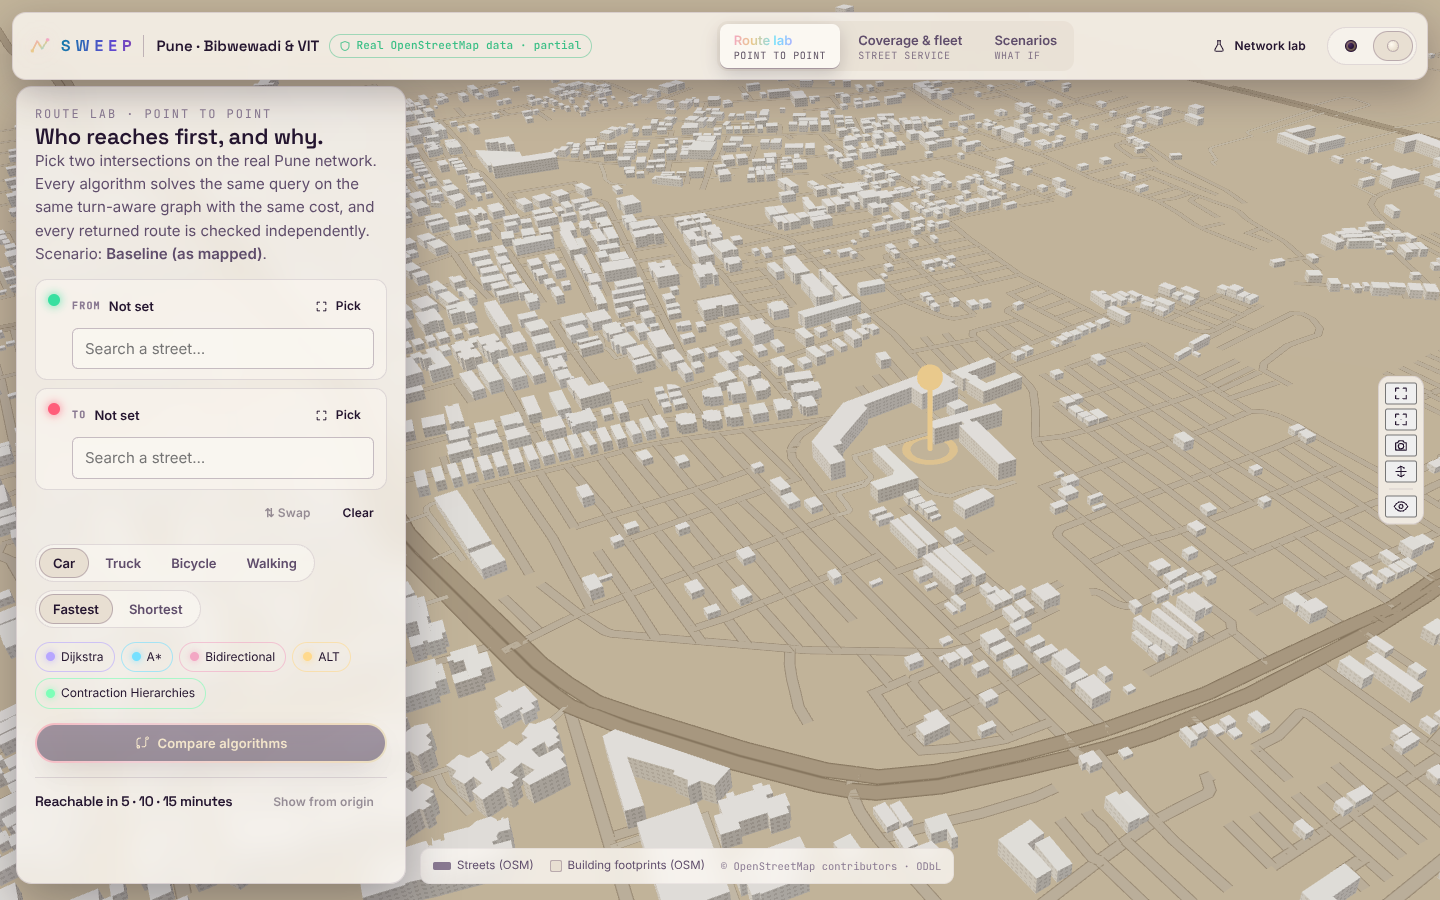
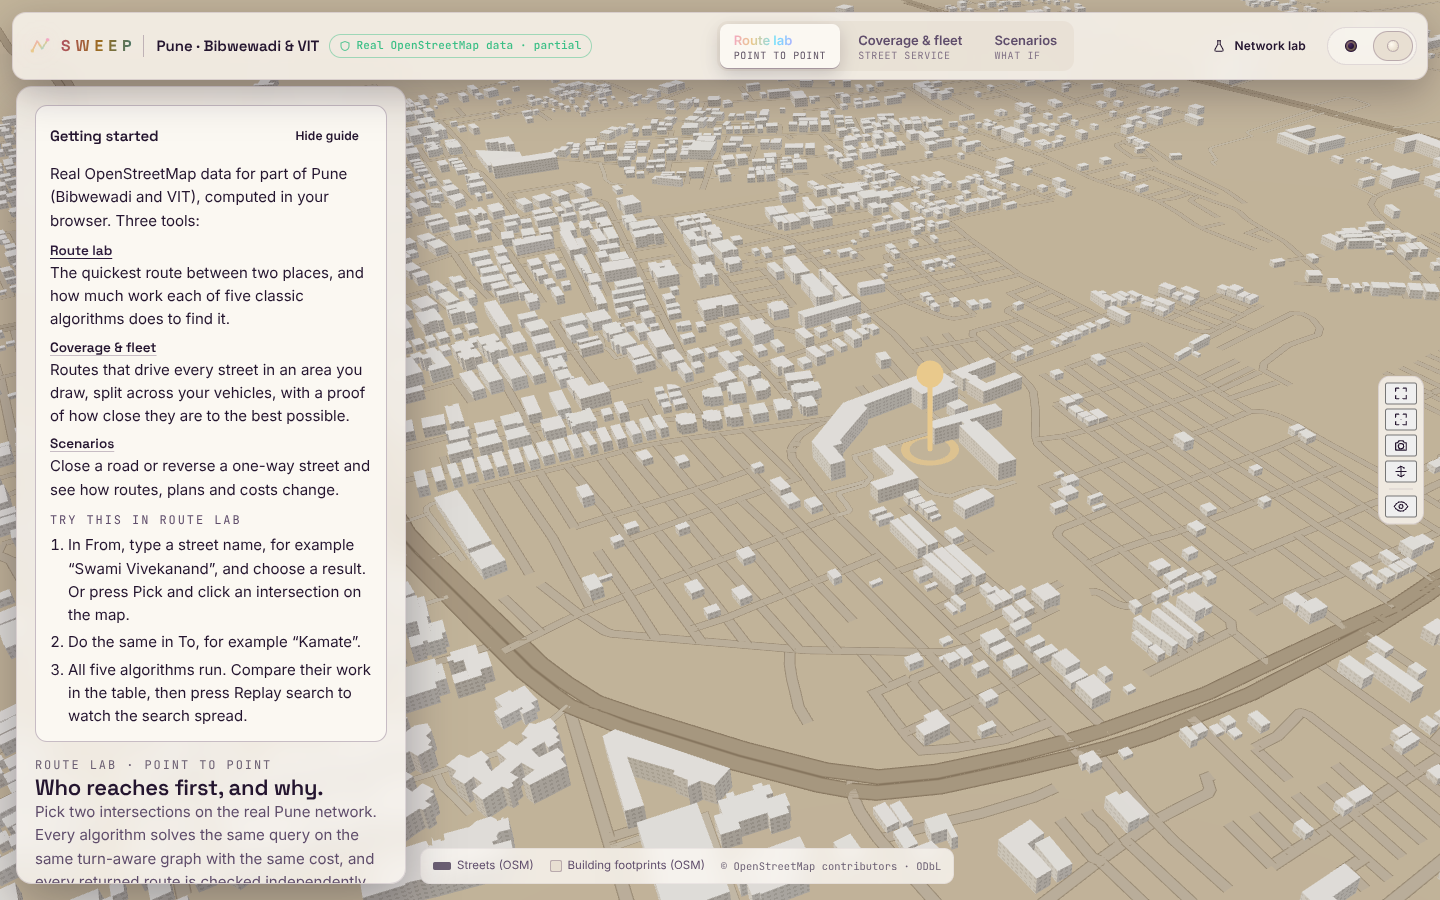
Route-coloured landing text uses --route-ink; recapture city screenshots; final checks
* .ledger .good and .plate__figure--good are small or large text in the
  route colour; they now use the --route-ink token (4.5:1 on Porcelain).
* docs/screenshots/city-*.png recaptured after the workspace changes and
  the Porcelain token change: the theme pair shows the first-visit guide.
* CITY_UX_NOTES.md records the full verify run (exit 0, browser 73/73).

Claude-Session: https://claude.ai/code/session_01CSpTwvnce58BdNaHwNZVMc

diff --git a/apps/web/src/styles/landing.css b/apps/web/src/styles/landing.css
@@ -339,7 +339,7 @@
   color: var(--repeat);
 }
 .plate__figure--good {
-  color: var(--route);
+  color: var(--route-ink);
 }
 
 /* ---- B: sticky transformation ---- */
@@ -525,7 +525,7 @@
   background: var(--line-soft);
 }
 .ledger .good {
-  color: var(--route);
+  color: var(--route-ink);
 }
 .ledger .bad {
   color: var(--repeat);

diff --git a/docs/CITY_UX_NOTES.md b/docs/CITY_UX_NOTES.md
@@ -154,10 +154,18 @@ WebGL is not involved.
 
 ## Final checks
 
-A full `pnpm verify` is running on the merged head (with `9ddebb9`). Its results go here with the next push. Already passed on the landing commit before that merge:
-* typecheck and lint clean;
-* unit tests engine 178, web 50, server 38;
-* city spec 19/19; landing, a11y and responsive specs 25/25.
+* **Full `pnpm verify`** on the merged head `84624b0` (with the main session's `9ddebb9`), 02:02–02:15 UTC: exit 0.
+  * typecheck and lint clean;
+  * unit tests: engine 178, server 38, web 50;
+  * the Python oracle: all comparisons agree (661 undirected and 1,401 directed or mixed graphs);
+  * build;
+  * browser tests 73 of 73.
+* **After that run,** two changes followed:
+  * `.ledger .good` and `.plate__figure--good` (route-coloured text) now use the main session's `--route-ink` token;
+  * `docs/screenshots/city-*.png` were recaptured. The theme pair shows the first-visit guide; the route and coverage shots hide it.
+
+  Checked again: typecheck and lint clean, unit tests 178 / 38 / 50, city / landing / a11y / responsive specs 44 of 44.
+* **New tests from this workstream:** 8 e2e tests (city 4, landing 2, responsive 2) and 4 unit tests (`deepLink.test.ts`). No test was weakened, skipped or removed, and no timeout was raised.
 
 ## Requests for the other session
 
